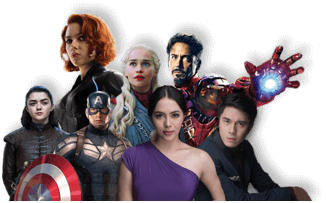
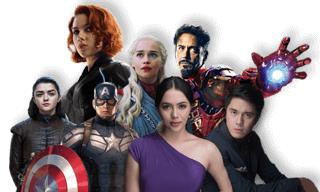
修改三角形背景图的对齐方式

diff --git a/pages/hybrid/questionNaire/asintado.vue b/pages/hybrid/questionNaire/asintado.vue
@@ -8,20 +8,27 @@
             <div class="box">
                 <div v-for="(item,index) in quesList" v-show="currIndex==index" :key="index" class="question">
                     <div>
-                        <span class="num">{{index+1}}. </span>{{item.question}}
+                        <span class="num">{{index+1}}.</span>
+                        {{item.question}}
                     </div>
                     <p @click="answer(1)">{{item.A}}</p>
                     <p @click="answer(0)">{{item.B}}</p>
                 </div>
                 <div class="progress">
                     <div class="line">
-                        <div v-for="(item,index) in quesList.length" :key="index" :class="{'now':index==currIndex}" :style="{left:100/(quesList.length-1)*index-2+'%'}">
+                        <div
+                            v-for="(item,index) in quesList.length"
+                            :key="index"
+                            :class="{'now':index==currIndex}"
+                            :style="{left:100/(quesList.length-1)*index-2+'%'}"
+                        >
                             <img src="~assets/img/naire/ic-point.png">
                             <span/>
                         </div>
                     </div>
                     <p>
-                        <span class="now">{{currIndex+1}}</span>/{{quesList.length}}
+                        <span class="now">{{currIndex+1}}</span>
+                        /{{quesList.length}}
                     </p>
                 </div>
             </div>
@@ -29,7 +36,7 @@
                 <img src="~assets/img/naire/ic_share_def_g.png"> SHARE TO MY FRIENDS
             </div>
         </div>
-        <mShare />
+        <mShare/>
     </div>
 </template>
 <script>
@@ -118,24 +125,25 @@ export default {
 </script>
 <style lang="less" scoped>
 #asintado {
-    background: url('~assets/img/naire/background2.png') no-repeat, linear-gradient(180deg, rgba(85, 85, 85, 1) 0%, rgba(201, 183, 166, 1) 100%);
-    background-size: contain;
+    background: linear-gradient(180deg, rgba(85, 85, 85, 1) 0%, rgba(201, 183, 166, 1) 100%);
     min-height: 100vh;
     .character {
+        background: url('~assets/img/naire/background2.png') no-repeat top center;
+        background-size: cover;
         .title {
             color: #ffffff;
             font-size: 1.3rem;
             text-align: center;
-            text-shadow: 0px 2px 4px rgba(0, 0, 0, 0.5);
-            background: linear-gradient(to bottom, #b7b7b7 0%, #eeeeee 52%, #d8d8d8 100%);
-            background-clip: text;
-            -webkit-text-fill-color: transparent;
+            text-shadow: 0px 3px 4px rgba(0, 0, 0, 1);
+            // background: linear-gradient(to bottom, #b7b7b7 0%, #eeeeee 52%, #d8d8d8 100%);
+            // background-clip: text;
+            // -webkit-text-fill-color: transparent;
             font-weight: bold;
-            line-height: 2.5rem;
+            line-height: 4rem;
         }
         img {
             display: block;
-            width: 90%;
+            width: 95%;
             margin: 0 auto;
         }
     }
@@ -143,11 +151,11 @@ export default {
         background: url('~assets/img/naire/background1.png') no-repeat bottom;
         background-size: contain;
         width: 100%;
-        padding: 0 5%;
+        padding: 0 4%;
         text-align: center;
         height: 60vh;
         .box {
-            padding: 0 3%;
+            padding: 0 4%;
             background: #ffffff;
             box-shadow: 0px 2px 4px 0px rgba(0, 0, 0, 0.3);
             border-radius: 13px;
@@ -202,8 +210,8 @@ export default {
                     }
                     &.now {
                         span {
-                            width: 0.8rem;
-                            height: 0.8rem;
+                            width: 0.9rem;
+                            height: 0.9rem;
                             background: #c3a041;
                         }
                         img {
@@ -226,7 +234,7 @@ export default {
     }
     .share {
         display: inline-block;
-        padding: 0 1rem;
+        padding: 0 1.5rem;
         color: #63428a;
         font-size: 0.95rem;
         vertical-align: middle;
